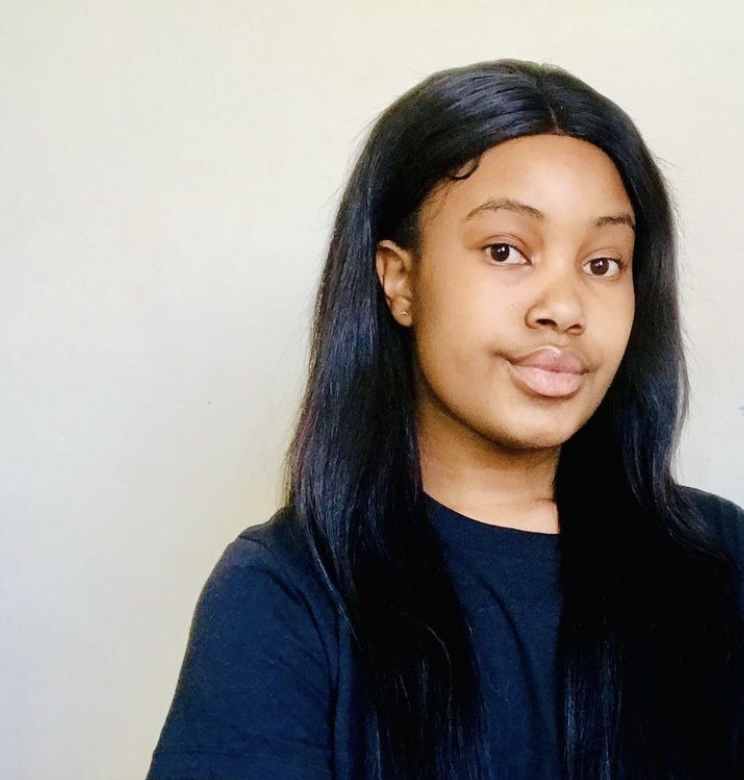
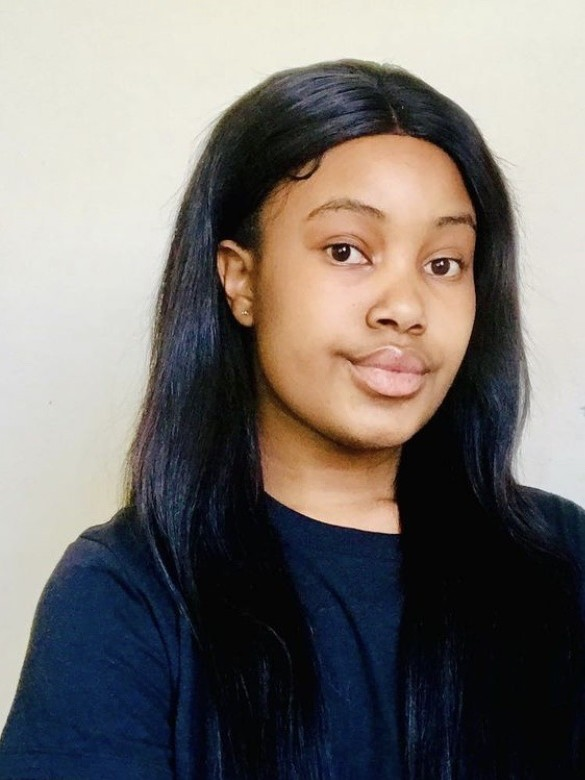
Update portfolio: About section, components, styling, and profile image

diff --git a/data/index.ts b/data/index.ts
@@ -60,23 +60,24 @@ export const skills = [
   },
   {
     quote:
-      "AWS Re/Start graduate with hands-on exposure to AWS cloud services, Linux, Python scripting, networking, and cloud security fundamentals.",
+      "AWS Cloud Practitioner Certified - AWS Re/Start graduate with hands-on exposure to AWS cloud services, Linux, Python scripting, networking, and cloud security fundamentals.",
     name: "AWS Cloud",
     title: "Cloud & Infrastructure",
   },
 ];
 
 export const skillCategories = [
-  "SQL & Databases",
+  "SQL",
   "Python",
-  "Power BI & Excel",
-  "Data Cleaning & Reporting",
+  "Data Cleaning",
+  "Data Visualisation",
+  "Power BI",
+  "Microsoft Excel",
   "Microsoft Azure",
   "AWS Cloud",
-  "Pandas & NumPy",
-  "Matplotlib & Seaborn",
-  "Git",
-  "ETL & ELT Basics",
+  "Analytical Thinking",
+  "Attention to Detail",
+  "Communication",
 ];
 
 export const certifications = [
@@ -87,7 +88,7 @@ export const certifications = [
     className: "md:col-span-2",
     thumbnail: "/exp1.svg",
     issuer: "Microsoft — 2026",
-    link: "https://learn.microsoft.com/en-us/credentials/certifications/azure-data-fundamentals/",
+    link: "https://lnkd.in/d--RhZes",
   },
   {
     id: 2,
@@ -95,7 +96,7 @@ export const certifications = [
     desc: "Earned through the AWS Re/Start Graduate Programme — covering Python, databases, Linux, networking, cloud security, and core AWS services.",
     className: "md:col-span-2",
     thumbnail: "/exp2.svg",
-    issuer: "Amazon Web Services",
+    issuer: "Amazon Web Services — 2025",
     link: "https://www.credly.com/go/20XwkbKKhRU27loqHmFb9A",
   },
   {
@@ -104,7 +105,7 @@ export const certifications = [
     desc: "Foundational training covering data types, data wrangling, statistics, visualisation, and analytical thinking skills.",
     className: "md:col-span-2",
     thumbnail: "/exp3.svg",
-    issuer: "Cisco Networking Academy",
+    issuer: "Cisco Networking Academy — 2026",
     link: "https://www.credly.com/badges/d72e40b4-1ed7-4a6d-b1e6-f703365ab79c",
   },
   {

diff --git a/components/AboutSection.tsx b/components/AboutSection.tsx
@@ -1,9 +1,9 @@
-const seekingRoles = ["Data Analyst", "Data Engineer", "Data Scientist", "Data Related Fields"];
+const seekingRoles = ["Data Analyst", "Data Engineer", "Data Scientist", "Other Data Related Fields"];
 
 const qualifications = [
-  "National Senior Certificate — Khula High",
-  "Diploma in Informatics (Cum Laude) — Tshwane University of Technology",
-  "Advanced Diploma in Informatics (In Progress) — Tshwane University of Technology",
+  "National Senior Certificate — Khula High (2018)",
+  "Diploma in Informatics (Cum Laude) — Tshwane University of Technology (2025)",
+  "Advanced Diploma in Informatics — Tshwane University of Technology (In Progress)",
 ];
 
 const AboutSection = () => {
@@ -31,11 +31,8 @@ const AboutSection = () => {
           {/* Name, tagline, summary */}
           <div className="p-8 flex flex-col justify-center gap-3">
             <div>
-              <h1 className="text-2xl font-bold text-white leading-tight">
-                Thabile Zulu
-              </h1>
               <p className="text-purple text-sm mt-1 font-medium">
-                Data Analyst | Cloud &amp; Technology Enthusiast
+                Informatics Graduate (Cum Laude) | Aspiring Data &amp; Cloud Professional
               </p>
             </div>
             <p className="text-white-200 text-sm leading-relaxed">

diff --git a/components/Clients.tsx b/components/Clients.tsx
@@ -7,19 +7,11 @@ import { InfiniteMovingCards } from "./ui/InfiniteCards";
 const Clients = () => {
   return (
     <section id="skills" className="py-20">
-      <h1 className="heading">
-        Technical <span className="text-purple">skills &amp; tools</span>
+      <h1 className="heading -mt-10 mb-8">
+        Skills &amp; <span className="text-purple">Tools</span>
       </h1>
 
       <div className="flex flex-col items-center max-lg:mt-10">
-        <div className="h-[50vh] md:h-[24rem] rounded-md flex flex-col antialiased items-center justify-center relative overflow-hidden">
-          <InfiniteMovingCards
-            items={skills}
-            direction="right"
-            speed="slow"
-          />
-        </div>
-
         <div className="flex flex-wrap items-center justify-center gap-3 max-lg:mt-6">
           {skillCategories.map((cat, i) => (
             <span
@@ -29,6 +21,14 @@ const Clients = () => {
               {cat}
             </span>
           ))}
+        </div>
+
+        <div className="h-[50vh] md:h-[24rem] rounded-md flex flex-col antialiased items-center justify-center relative overflow-hidden">
+          <InfiniteMovingCards
+            items={skills}
+            direction="right"
+            speed="slow"
+          />
         </div>
       </div>
     </section>

diff --git a/components/Footer.tsx b/components/Footer.tsx
@@ -3,14 +3,14 @@ import { FaGithub, FaLinkedin, FaEnvelope, FaPhone, FaLocationDot } from "react-
 const Footer = () => {
   return (
     <footer className="w-full pt-10 pb-10" id="contact">
-      <div className="flex flex-col gap-6">
+      <div className="flex flex-col gap-6 items-center">
 
         <h1 className="heading lg:max-w-[45vw]">
           Ready to <span className="text-purple">connect</span> and collaborate?
         </h1>
         <p className="text-white-200 max-w-xl text-sm leading-relaxed">
-          I&apos;m actively seeking entry-level roles in Data Analytics, Data Engineering,
-          and Data Science. Feel free to reach out — I&apos;d love to connect.
+          I am seeking entry-level positions across data analytics, data engineering, data science,
+          and related data fields. I welcome connections and opportunities to collaborate.
         </p>
 
         {/* Contact details */}

diff --git a/app/page.tsx b/app/page.tsx
@@ -18,6 +18,15 @@ const Home = () => {
       <div className="max-w-4xl w-full">
         <div className="pt-10 pb-10">
 
+          {/* Hero title */}
+          <div className="text-center py-10 animate-fade-in">
+            <h1 className="text-4xl md:text-6xl font-bold tracking-tight text-white">
+              Thabile Zulu{" "}
+              <span className="text-purple">Portfolio</span>
+            </h1>
+            <div className="mt-3 w-16 h-0.5 bg-purple mx-auto opacity-60 rounded-full" />
+          </div>
+
           {/* Tab bar */}
           <div className="flex gap-1 border-b border-white/[0.1] mb-2 overflow-x-auto">
             {tabs.map((tab) => (

diff --git a/components/ui/InfiniteCards.tsx b/components/ui/InfiniteCards.tsx
@@ -116,7 +116,7 @@ export const InfiniteMovingCards = ({
               <div className="relative z-20 mt-6 flex flex-row items-center">
                 {/* add this div for the profile img */}
                 <div className="me-3">
-                  <img src="/profile.svg" alt="profile" />
+                  <img src="/thabile.jpg" alt="profile" style={{width: 50, height: 50, borderRadius: "50%", objectFit: "cover"}} />
                 </div>
                 <span className="flex flex-col gap-1">
                   {/* change text color, font-normal to font-bold, text-xl */}

diff --git a/components/ProfileSidebar.tsx b/components/ProfileSidebar.tsx
@@ -34,7 +34,7 @@ const ProfileSidebar = () => {
           Thabile Zulu
         </h1>
         <p className="text-purple text-sm mt-1 font-medium">
-          Data Analyst | Cloud &amp; Technology Enthusiast
+          Informatics Graduate (Cum Laude) | Aspiring Data &amp; Cloud Professional
         </p>
       </div>
 

diff --git a/app/globals.css b/app/globals.css
@@ -82,4 +82,11 @@
   .heading {
     @apply font-bold text-4xl md:text-5xl text-center;
   }
+  .animate-fade-in {
+    animation: fadeIn 0.8s ease forwards;
+  }
+  @keyframes fadeIn {
+    from { opacity: 0; transform: translateY(-10px); }
+    to   { opacity: 1; transform: translateY(0); }
+  }
 }
